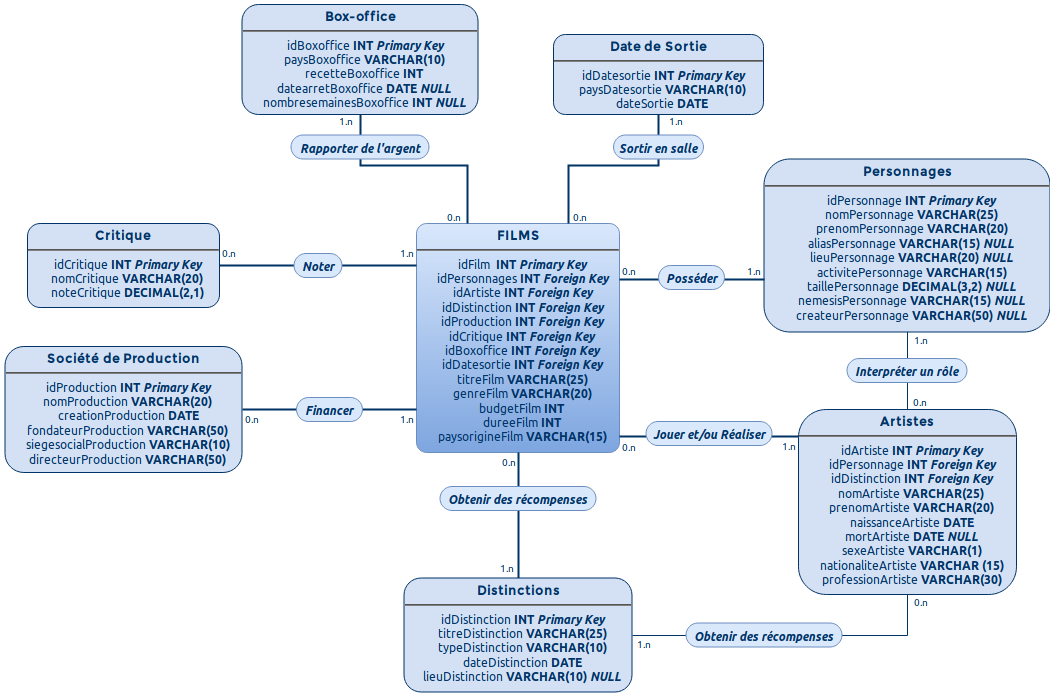
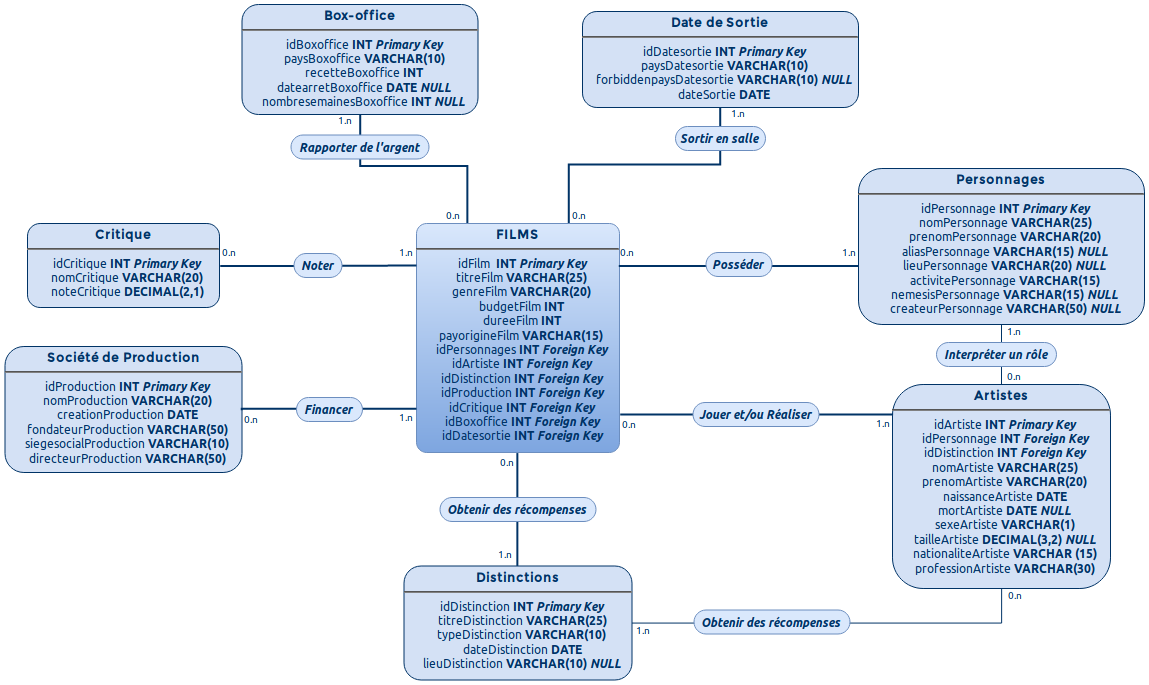
UPDATE 27/02/2019
Modifications du  Schéma MCD ;
Même modification dans le createDatabase.sql.

Changed region(s): [[0.0, 0.2146, 1.0, 1.0], [0.4858, 0.0, 0.759, 0.2453], [0.2125, 0.0, 0.4554, 0.2453]]

diff --git a/README.md b/README.md
@@ -1,5 +1,5 @@
 # MovieDatabase
-Ce projet *Ydays* consiste en la création d'une base de données en **SQL** sur les films.
+Ce projet de *Ydays* consiste en la création d'une base de données en **SQL** sur les films.
 
 ## Auteurs
 **Bordeaux Ynov Campus Informatique**
